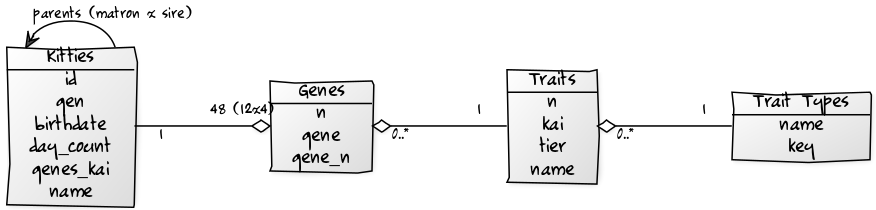
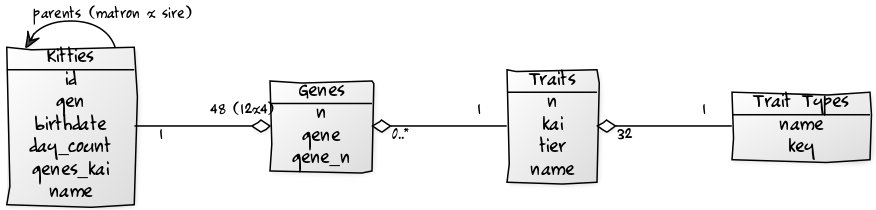
add query samples

diff --git a/lib/copycats/schema.rb b/lib/copycats/schema.rb
@@ -6,7 +6,7 @@
 =begin
 [Kitties|id;gen;birthdate;day_count;genes_kai;name]1-<>48 (12x4)[Genes|n;gene;gene_n],
 [Genes]0..*<>-1[Traits|n;kai;tier;name],
-[Traits]0..*<>-1[Trait Types|name;key],
+[Traits]32<>-1[Trait Types|name;key],
 [Kitties]<-parents (matron x sire) [Kitties],
 =end
 

diff --git a/README.md b/README.md
@@ -10,6 +10,13 @@ copycats command line tool (and core library) - crypto cats / kitties collectibl
 * rdoc  :: [rubydoc.info/gems/copycats](http://rubydoc.info/gems/copycats)
 
 
+## Database Tables
+
+Table Diagram
+
+![](copycats-tables.png)
+
+
 
 
 ## kitty Command Line Tool
@@ -30,14 +37,6 @@ id,gen,matron_id,sire_id,birthdate,genes,name
 
 Note: By default all datafiles (`**/*.csv`) in the `./data` and all subdirectories
 get (auto-)read. Use the `-i/--include` option to change the data directory.
-
-
-### Database Tables
-
-Table Diagram
-
-![](copycats-tables.png)
-
 
 
 
@@ -246,6 +245,84 @@ Mouth (Genes 32-35)
 
 
 
+
+## Database Queries
+
+### SQL
+
+#### Find all kitties with a trait
+
+Note: All traits (12 x 32 = 384) are numbered with ids from 0 to 383 in the traits database table.
+Let's use the trait savannah (fur) with the id 0:
+
+``` sql
+SELECT kitty_id FROM genes WHERE trait_id = 0
+```
+
+
+#### Find all kitties with a dominant (visible) trait
+
+Note: Use `gene` column (`d`/`r1`/`r2`/`r3`) or the numeric `gene_n`
+column (0/1/2/3): Let's use the trait savannah (fur) with the id 0
+and a dominant (d) gene:
+
+
+``` sql
+SELECT kitty_id FROM  genes
+                WHERE trait_id = 0 AND gene='d'
+```
+
+
+#### Find all kitties with two traits
+
+Use two query with "intersect" the result. Let's
+use the trait savannah (fur) with the id 0
+and the trait tiger (pattern) with the id 33:
+
+``` sql
+SELECT kitty_id from genes where trait_id = 0
+INTERSECT
+SELECT kitty_id from genes where trait_id = 33
+```
+
+
+
+### Using Ruby Models w/ ActiveRecord
+
+
+#### Find all kitties with a trait
+
+Let's use the trait savannah (fur):
+
+``` ruby
+genes = Gene.find_by( trait: Trait.find_by( name: 'savannah' ))  # query
+genes.map { |gene| gene.kitty }                                  # get kitties (from gene)
+```
+
+
+#### Find all kitties with a dominant (visible) trait
+
+Let's use the trait savannah (fur) and a dominant (d) gene:
+
+
+``` ruby
+genes = Gene.find_by( trait: Trait.find_by( name: 'savannah' ),
+                      d:     'd' )
+genes.map { |gene| gene.kitty }     # get kitties (from gene)
+```
+
+
+#### Find all kitties with two traits
+
+Use two query with "intersect" the result. Let's
+use the trait savannah (fur)
+and the trait tiger (pattern):
+
+``` ruby
+genes = Gene.find_by( trait: Trait.find_by( name: 'savannah' )) &
+        Gene.find_by( trait: Trait.find_by( name: 'pattern' ))
+genes.map { |gene| gene.kitty }     # get kitties (from gene)
+```
 
 
 ## Quick References / Cheat Sheets
